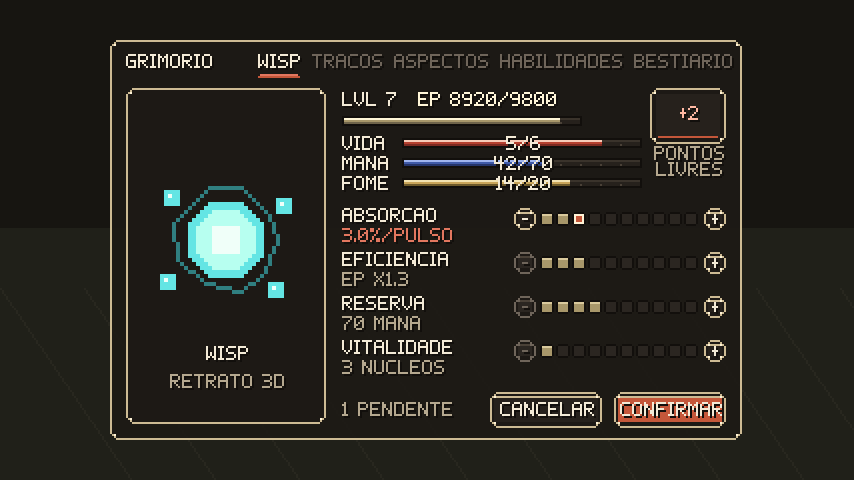
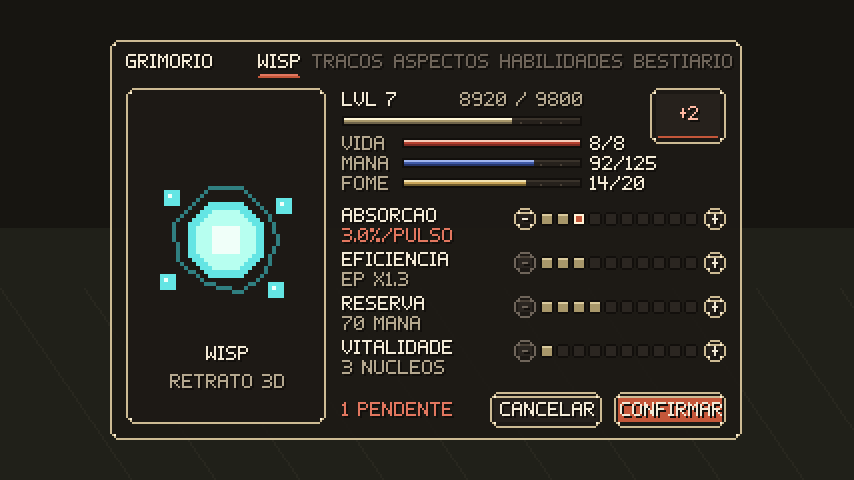
feat(grimoire): layout compacto aprovado (barras de 90 px com valor a direita, sem legenda no +N)
Vida, mana e fome usam barras 90x5 (bar_background_short) terminando em 236,
junto da barra de EP, com o valor a direita em vez de em cima. EP alinhado a
direita, legenda 'pontos livres' removida (colidia com a mana) e dica curta
em ferrugem quando ha pendentes. Gerador, mockup, LAYOUT.md e spec F5 juntos.

Changed region(s): [[0.4871, 0.1875, 0.8525, 0.4062], [0.3958, 0.2812, 0.4567, 0.4062], [0.3958, 0.8125, 0.548, 0.875]]

diff --git a/src/main/java/dev/eder/wispborn/client/grimoire/GrimoireScreen.java b/src/main/java/dev/eder/wispborn/client/grimoire/GrimoireScreen.java
@@ -20,12 +20,10 @@ import net.minecraft.client.resources.sounds.SimpleSoundInstance;
 import net.minecraft.network.chat.Component;
 import net.minecraft.resources.ResourceLocation;
 import net.minecraft.sounds.SoundEvents;
-import net.minecraft.util.FormattedCharSequence;
 import net.minecraft.util.Mth;
 import net.minecraft.world.entity.player.Player;
 import net.neoforged.neoforge.network.PacketDistributor;
 
-import java.util.List;
 import java.util.Locale;
 
 /**
@@ -42,7 +40,11 @@ public final class GrimoireScreen extends Screen {
     private static final int COLOR_POINTS_ACTIVE = 0xFFB9A3;
     private static final int COLOR_CONFIRM_ACTIVE = 0xFFF3D6;
 
-    private static final int BAR_WIDTH = 120;
+    private static final int EP_BAR_WIDTH = 120;
+    /** Vida, mana e fome: mais curtas que a de EP para o valor caber à direita da barra. */
+    private static final int STAT_BAR_WIDTH = 90;
+    private static final int BARS_RIGHT = 236;
+    private static final int STAT_VALUE_X = BARS_RIGHT + 4;
     private static final int BAR_HEIGHT = 5;
     private static final int STAT_TEXT_MAX_WIDTH = 84;
     private static final int STEP_BTN_SIZE = 11;
@@ -179,27 +181,27 @@ public final class GrimoireScreen extends Screen {
                 ? Component.translatable("wispborn.grimoire.ep_max", state.totalEp())
                 : Component.translatable("wispborn.grimoire.ep", state.totalEp(), state.nextLevelEp());
         graphics.drawString(font, levelLabel, left + 116, top + 26, COLOR_TEXT_PRIMARY, true);
-        graphics.drawString(font, epLabel, left + 154, top + 26, COLOR_TEXT_SECONDARY, true);
+        graphics.drawString(font, epLabel, left + BARS_RIGHT - font.width(epLabel), top + 26, COLOR_TEXT_SECONDARY, true);
 
         int epFill;
         if (state.nextLevelEp() < 0) {
-            epFill = BAR_WIDTH;
+            epFill = EP_BAR_WIDTH;
         } else {
             int inLevel = Math.max(0, state.totalEp() - state.levelStartEp());
             int span = Math.max(1, state.nextLevelEp() - state.levelStartEp());
-            epFill = HudMath.progressWidth(inLevel, span, BAR_WIDTH);
+            epFill = HudMath.progressWidth(inLevel, span, EP_BAR_WIDTH);
         }
 
         float health = player.getHealth();
         float maxHealth = Math.max(1.0F, player.getMaxHealth());
-        int lifeFill = HudMath.progressWidth(health, maxHealth, BAR_WIDTH);
+        int lifeFill = HudMath.progressWidth(health, maxHealth, STAT_BAR_WIDTH);
 
         float mana = state.mana();
         int maxMana = Math.max(1, state.maxMana());
-        int manaFill = HudMath.progressWidth(mana, maxMana, BAR_WIDTH);
+        int manaFill = HudMath.progressWidth(mana, maxMana, STAT_BAR_WIDTH);
 
         int food = player.getFoodData().getFoodLevel();
-        int hungerFill = HudMath.progressWidth(food, 20.0F, BAR_WIDTH);
+        int hungerFill = HudMath.progressWidth(food, 20.0F, STAT_BAR_WIDTH);
 
         int remaining = this.pending.remainingPoints();
         boolean hasPoints = remaining > 0;
@@ -208,10 +210,10 @@ public final class GrimoireScreen extends Screen {
                 : GrimoireSprites.POINTS_BOX_EMPTY;
 
         RenderSystem.enableBlend();
-        drawBar(graphics, GrimoireSprites.BAR_EP, left + 116, top + 38, epFill);
-        drawBar(graphics, GrimoireSprites.BAR_LIFE, left + 146, top + 49, lifeFill);
-        drawBar(graphics, GrimoireSprites.BAR_MANA, left + 146, top + 59, manaFill);
-        drawBar(graphics, GrimoireSprites.BAR_HUNGER, left + 146, top + 69, hungerFill);
+        drawBar(graphics, GrimoireSprites.BAR_BACKGROUND, GrimoireSprites.BAR_EP, EP_BAR_WIDTH, left + 116, top + 38, epFill);
+        drawBar(graphics, GrimoireSprites.BAR_BACKGROUND_SHORT, GrimoireSprites.BAR_LIFE, STAT_BAR_WIDTH, left + 146, top + 49, lifeFill);
+        drawBar(graphics, GrimoireSprites.BAR_BACKGROUND_SHORT, GrimoireSprites.BAR_MANA, STAT_BAR_WIDTH, left + 146, top + 59, manaFill);
+        drawBar(graphics, GrimoireSprites.BAR_BACKGROUND_SHORT, GrimoireSprites.BAR_HUNGER, STAT_BAR_WIDTH, left + 146, top + 69, hungerFill);
         graphics.blitSprite(pointsBox, left + 270, top + 24, 38, 28);
         RenderSystem.disableBlend();
 
@@ -219,21 +221,15 @@ public final class GrimoireScreen extends Screen {
         graphics.drawString(font, Component.translatable("wispborn.grimoire.mana"), left + 116, top + 58, COLOR_TEXT_SECONDARY, true);
         graphics.drawString(font, Component.translatable("wispborn.grimoire.hunger"), left + 116, top + 68, COLOR_TEXT_SECONDARY, true);
 
-        int barCenterX = left + 146 + BAR_WIDTH / 2;
-        graphics.drawCenteredString(font, Mth.ceil(health) + "/" + Mth.ceil(maxHealth), barCenterX, top + 48, COLOR_TEXT_PRIMARY);
-        graphics.drawCenteredString(font, Mth.floor(mana) + "/" + state.maxMana(), barCenterX, top + 58, COLOR_TEXT_PRIMARY);
-        graphics.drawCenteredString(font, food + "/20", barCenterX, top + 68, COLOR_TEXT_PRIMARY);
+        int valueX = left + STAT_VALUE_X;
+        graphics.drawString(font, Mth.ceil(health) + "/" + Mth.ceil(maxHealth), valueX, top + 48, COLOR_TEXT_PRIMARY, true);
+        graphics.drawString(font, Mth.floor(mana) + "/" + state.maxMana(), valueX, top + 58, COLOR_TEXT_PRIMARY, true);
+        graphics.drawString(font, food + "/20", valueX, top + 68, COLOR_TEXT_PRIMARY, true);
 
         String pointsText = "+" + remaining;
         int pointsColor = hasPoints ? COLOR_POINTS_ACTIVE : COLOR_TEXT_DISABLED;
+        // Sem legenda: o "+N" basta, e uma legenda sob a caixa colidiria com o valor da mana.
         graphics.drawCenteredString(font, pointsText, left + 289, top + 24 + (28 - font.lineHeight) / 2, pointsColor);
-
-        List<FormattedCharSequence> captionLines = font.split(Component.translatable("wispborn.grimoire.points"), 40);
-        for (int i = 0; i < captionLines.size(); i++) {
-            FormattedCharSequence line = captionLines.get(i);
-            int lineW = font.width(line);
-            graphics.drawString(font, line, left + 289 - lineW / 2, top + 54 + i * 8, COLOR_TEXT_SECONDARY, true);
-        }
     }
 
     private void renderAttributes(
@@ -303,11 +299,17 @@ public final class GrimoireScreen extends Screen {
 
     private void renderFooter(GuiGraphics graphics, Font font, int left, int top, int mouseX, int mouseY) {
         boolean hasPending = this.pending.hasPending();
-        Component hint = hasPending
-                ? Component.translatable("wispborn.grimoire.hint.pending", this.pending.toDelta().total())
-                : Component.translatable("wispborn.grimoire.hint.idle");
+        int pendingCount = this.pending.toDelta().total();
+        Component hint;
+        if (!hasPending) {
+            hint = Component.translatable("wispborn.grimoire.hint.idle");
+        } else if (pendingCount == 1) {
+            hint = Component.translatable("wispborn.grimoire.hint.pending_one");
+        } else {
+            hint = Component.translatable("wispborn.grimoire.hint.pending", pendingCount);
+        }
         String hintStr = ellipsize(font, hint.getString(), 70);
-        graphics.drawString(font, hintStr, left + 116, top + 181, COLOR_TEXT_SECONDARY, true);
+        graphics.drawString(font, hintStr, left + 116, top + 181, hasPending ? COLOR_RUST_LIGHT : COLOR_TEXT_SECONDARY, true);
 
         int cancelX = left + 190;
         int confirmX = left + 252;
@@ -391,10 +393,18 @@ public final class GrimoireScreen extends Screen {
         return super.mouseClicked(mouseX, mouseY, button);
     }
 
-    private static void drawBar(GuiGraphics graphics, ResourceLocation fillSprite, int x, int y, int fillWidth) {
-        graphics.blitSprite(GrimoireSprites.BAR_BACKGROUND, x, y, BAR_WIDTH, BAR_HEIGHT);
+    private static void drawBar(
+            GuiGraphics graphics,
+            ResourceLocation backgroundSprite,
+            ResourceLocation fillSprite,
+            int width,
+            int x,
+            int y,
+            int fillWidth
+    ) {
+        graphics.blitSprite(backgroundSprite, x, y, width, BAR_HEIGHT);
         if (fillWidth > 0) {
-            graphics.blitSprite(fillSprite, BAR_WIDTH, BAR_HEIGHT, 0, 0, x, y, fillWidth, BAR_HEIGHT);
+            graphics.blitSprite(fillSprite, width, BAR_HEIGHT, 0, 0, x, y, fillWidth, BAR_HEIGHT);
         }
     }
 

diff --git a/art/hud/src/generate_hud.py b/art/hud/src/generate_hud.py
@@ -244,12 +244,14 @@ def make_grimoire():
         d.rectangle((3,3,20,20),fill='#26211C' if active else '#2B2621')
         d.line((4,20,19,20),fill='#C4573A' if active else '#4A4137')
         put('points_box_'+('active' if active else 'empty'),image,4)
+    # EP keeps the full 120 px; life, mana and hunger are 90 px so their values fit to the right.
     put('bar_background',bar((120,5),('#26211C',)*3))
-    for name,colors in [('life',('#B5402F','#F7CBB8','#7D2A21')),
-                        ('mana',('#3F5AA8','#9FB4EE','#24346A')),
-                        ('hunger',('#C9A55A','#F2E2B0','#6E5A2A')),
-                        ('ep',('#A8976A','#FFF6D8','#6F644A'))]:
-        put('bar_'+name,bar((120,5),colors,True))
+    put('bar_background_short',bar((90,5),('#26211C',)*3))
+    for name,colors,width in [('life',('#B5402F','#F7CBB8','#7D2A21'),90),
+                              ('mana',('#3F5AA8','#9FB4EE','#24346A'),90),
+                              ('hunger',('#C9A55A','#F2E2B0','#6E5A2A'),90),
+                              ('ep',('#A8976A','#FFF6D8','#6F644A'),120)]:
+        put('bar_'+name,bar((width,5),colors,True))
     (ROOT/'grimoire_manifest.json').write_text(json.dumps({k:list(v.size) for k,v in kit.items()},indent=2)+'\n')
     return kit
 
@@ -453,20 +455,19 @@ def grimoire_mockup(kit):
     label('WISP',58,153,center=True)
     label('RETRATO 3D',58,167,'#B5A88F',True)
     label('LVL 7',116,26)
-    label('EP 8920/9800',154,26,'#FFF6D8')
+    ep='8920 / 9800'
+    label(ep,236-(sum(len(FONT[c][0])+1 for c in ep)-1),26,'#B5A88F')
     paste('bar_background',116,38)
-    canvas.alpha_composite(kit['bar_ep'].crop((0,0,109,5)),(ox+116,oy+38))
-    for title,name,y,value,numbers in [('VIDA','life',48,5/6,'5/6'),('MANA','mana',58,.6,'42/70'),('FOME','hunger',68,.7,'14/20')]:
-        label(title,116,y)
-        paste('bar_background',146,y+1)
-        canvas.alpha_composite(kit['bar_'+name].crop((0,0,math.floor(120*value),5)),(ox+146,oy+y+1))
-        label(numbers,206,y,'#F3EAD6',True)
+    canvas.alpha_composite(kit['bar_ep'].crop((0,0,85,5)),(ox+116,oy+38))
+    # Bars end at 236, aligned with the EP bar; values start at 240, clear of the bars.
+    for title,name,y,value,numbers in [('VIDA','life',48,1,'8/8'),('MANA','mana',58,92/125,'92/125'),('FOME','hunger',68,.7,'14/20')]:
+        label(title,116,y,'#B5A88F')
+        paste('bar_background_short',146,y+1)
+        canvas.alpha_composite(kit['bar_'+name].crop((0,0,math.floor(90*value),5)),(ox+146,oy+y+1))
+        label(numbers,240,y)
+    # The +N counter needs no caption; a caption would collide with the mana value.
     paste('points_box_active',270,24,(38,28),4)
     label('+2',289,33,'#FFB9A3',True)
-    # The two-line caption fits below the box without colliding with resource values.
-    label('PONTOS',289,53,'#B5A88F',True)
-    label('LIVRES',289,61,'#B5A88F',True)
-    # Values sit over the bars so the points caption retains its own column.
     for i,(name,effect,spent,pending) in enumerate([
             ('ABSORCAO','3.0%/PULSO',2,1),('EFICIENCIA','EP X1.3',3,0),
             ('RESERVA','70 MANA',4,0),('VITALIDADE','3 NUCLEOS',1,0)]):
@@ -482,7 +483,7 @@ def grimoire_mockup(kit):
     paste('button',190,176,(56,18),3)
     paste('button_primary',252,176,(56,18),3)
     label('CANCELAR',218,181,center=True);label('CONFIRMAR',280,181,center=True)
-    label('1 PENDENTE',116,181,'#B5A88F')
+    label('1 PENDENTE',116,181,'#E2775F')
     return canvas.resize((854,480),Image.Resampling.NEAREST)
 
 

diff --git a/src/main/java/dev/eder/wispborn/client/grimoire/GrimoireSprites.java b/src/main/java/dev/eder/wispborn/client/grimoire/GrimoireSprites.java
@@ -27,6 +27,7 @@ public final class GrimoireSprites {
     public static final ResourceLocation POINTS_BOX_EMPTY = grimoire("points_box_empty");
 
     public static final ResourceLocation BAR_BACKGROUND = grimoire("bar_background");
+    public static final ResourceLocation BAR_BACKGROUND_SHORT = grimoire("bar_background_short");
     public static final ResourceLocation BAR_LIFE = grimoire("bar_life");
     public static final ResourceLocation BAR_MANA = grimoire("bar_mana");
     public static final ResourceLocation BAR_HUNGER = grimoire("bar_hunger");

diff --git a/docs/specs/F5-hud-b-grimorio.md b/docs/specs/F5-hud-b-grimorio.md
@@ -36,7 +36,8 @@ Grimório, atlas de GUI, `wispborn:grimoire/<nome>`:
 | `button`, `button_hover`, `button_disabled` | 20×20, nine-slice borda 3 | Botões `−`, `+` e Cancelar |
 | `button_primary`, `button_primary_hover`, `button_primary_disabled` | 20×20, nine-slice borda 3 | Confirmar |
 | `points_box_active`, `points_box_empty` | 24×24, nine-slice borda 4 | Contador `+N` (com pontos / sem pontos) |
-| `bar_background`, `bar_life`, `bar_mana`, `bar_hunger`, `bar_ep` | 120×5 | Barras da página (estáticas) |
+| `bar_background`, `bar_ep` | 120×5 | Barra de EP da página (estática) |
+| `bar_background_short`, `bar_life`, `bar_mana`, `bar_hunger` | 90×5 | Vida, mana e fome da página (estáticas) |
 
 Copiar PNG e `.png.mcmeta` juntos. O nine-slice vem no `.mcmeta` (`gui.scaling.type = nine_slice`).
 
@@ -80,14 +81,16 @@ Copiar PNG e `.png.mcmeta` juntos. O nine-slice vem no `.mcmeta` (`gui.scaling.t
    | Abas: Wisp (ativa), Traços, Aspectos, Habilidades, Bestiário | a partir de 74, 7, separadas por 8 | fonte; desativadas em `#6F655A` |
    | `tab_underline` sob a aba ativa | largura do texto, y 17 | 3 de altura |
    | `portrait_frame` + wisp 3D | 8, 24 | 100×168 |
-   | "Lvl N" e "EP atual / próximo" | 116, 26 | fonte |
-   | `bar_ep` | 116, 38 | 120×5 |
-   | Vida, Mana, Fome: rótulo + barra + valor | 116, 48 / 58 / 68 | barras 120×5 |
-   | Contador de pontos (`points_box_*` + `+N`) | 270, 24 | 38×28 |
-   | Rótulo do contador (`pontos livres`) | centrado sob o contador | fonte |
+   | "Lvl N" | 116, 26 | fonte |
+   | "EP atual / próximo" (`wispborn.grimoire.ep`) | alinhado à direita em 236, y 26 | fonte, `#B5A88F` |
+   | `bar_ep` sobre `bar_background` | 116, 38 | 120×5 |
+   | Vida, Mana, Fome: rótulo (`#B5A88F`) | 116, 48 / 58 / 68 | fonte |
+   | Barras de vida, mana e fome sobre `bar_background_short` | 146, 49 / 59 / 69 | 90×5 (terminam em 236, junto com a de EP) |
+   | Valor de cada barra (`atual/máximo`) | 240, 48 / 58 / 68 | fonte, à direita da barra, nunca em cima |
+   | Contador de pontos (`points_box_*` + `+N`) | 270, 24 | 38×28, sem legenda |
    | 4 linhas de atributo | 116, 84 + 22×i | ver regra 10 |
    | Cancelar e Confirmar | canto inferior direito, y 176 | 56×18 cada |
-   | Dica (`wispborn.grimoire.hint.*`) | 116, 181 | fonte, `#B5A88F` |
+   | Dica (`wispborn.grimoire.hint.*`) | 116, 181 | fonte; `#B5A88F` sem pendentes, `#E2775F` com pendentes; até 70 px |
 
 9. **Wisp 3D:** `InventoryScreen.renderEntityInInventoryFollowsMouse(guiGraphics, x1, y1, x2, y2, scale,
    yOffset, mouseX, mouseY, player)` dentro do quadro. Com a forma WISP, o `RenderPlayerEvent` do mod já troca
@@ -136,8 +139,9 @@ Copiar PNG e `.png.mcmeta` juntos. O nine-slice vem no `.mcmeta` (`gui.scaling.t
   barras, atributos, rodapé); `client/grimoire/GrimoireSprites` (constantes `wispborn:grimoire/*`);
   `client/hud/HudSprites.DNA_ORB`.
 - Lang (pt_br e en_us): `key.wispborn.grimoire`, `wispborn.grimoire.title`, `wispborn.grimoire.tab.wisp|traits|aspects|skills|bestiary`,
-  `wispborn.grimoire.points` (`pontos livres` / `points left`), `wispborn.grimoire.cancel`, `wispborn.grimoire.confirm`,
-  `wispborn.grimoire.hint.idle`, `wispborn.grimoire.hint.pending`, os 4 formatos de efeito, e
+  `wispborn.grimoire.cancel`, `wispborn.grimoire.confirm`, `wispborn.grimoire.hint.idle` (`Clique em +`),
+  `wispborn.grimoire.hint.pending_one` (`1 pendente`) e `wispborn.grimoire.hint.pending` (`%s pendentes`),
+  os 4 formatos de efeito, e
   `wispborn.grimoire.allocate.empty|negative|not_enough_points|over_max`.
 
 ## Testes (JUnit)
@@ -226,7 +230,7 @@ Nenhuma. A arte A4 (`art/hud/sprites/` e `art/hud/grimoire/`) passou no `validat
 ### Decisões tomadas
 - **Zero `fill` ou gradiente no Grimório:** `GrimoireScreen.renderBackground` foi sobrescrito vazio para impedir o `fillGradient` escuro padrão do `Screen` vanilla, mantendo 100% da renderização em `GuiGraphics.blitSprite` e `Font`.
 - **Retrato 3D na forma `HOST`:** como o jogador em `HOST` fica invisível e `WispRenderHandler.onRenderPlayerPre` cancela a renderização no mundo, `GrimoireScreen.renderPortrait` envolve `InventoryScreen.renderEntityInInventoryFollowsMouse` com `WispRenderHandler.setRenderingGrimoirePortrait(true/false)` para que o modelo 3D do wisp apareça no retrato tanto em `WISP` quanto em `HOST`.
-- **Legenda do contador de pontos:** `wispborn.grimoire.points` (`"pontos livres"` / `"points left"`) é quebrada com `font.split(..., 40)` sob a caixa `38×28` em `(270, 24)` conforme `art/hud/LAYOUT.md`, evitando colisão com as barras de recursos (`x = 146..266`).
+- **Legenda do contador de pontos:** removida na revisão de 20/11 (layout do Gemini aprovado por Eder). A legenda sob a caixa colidia com o valor da mana; o `+N` sozinho basta.
 
 ### O que não foi feito
 - Páginas Traços, Aspectos, Habilidades e Bestiário (exibidas apenas como abas desativadas, fora de escopo).

diff --git a/art/hud/LAYOUT.md b/art/hud/LAYOUT.md
@@ -101,7 +101,8 @@ scaling separately to the nine regions; corners retain their pixel size.
 | `button`, `button_hover`, `button_disabled` | 20×20 | 3 |
 | `button_primary`, `button_primary_hover`, `button_primary_disabled` | 20×20 | 3 |
 | `points_box_active`, `points_box_empty` | 24×24 | 4 |
-| `bar_background`, `bar_life`, `bar_mana`, `bar_hunger`, `bar_ep` | 120×5 | none |
+| `bar_background`, `bar_ep` | 120×5 | none |
+| `bar_background_short`, `bar_life`, `bar_mana`, `bar_hunger` | 90×5 | none |
 
 ## Grimoire mockup layout
 
@@ -116,16 +117,16 @@ All coordinates below are relative to the panel's top-left.
 | Tabs | starting 74,7 | Wisp active; others disabled; 6 px gap (allowed -2 adjustment) |
 | Active underline | tab X,17 | Text width ×3 |
 | Portrait frame | 8,24 | 100×168 |
-| Level / EP label | 116,26 / 154,26 | Lvl 7; EP 8920/9800 |
+| Level / EP label | 116,26 / right-aligned at 236,26 | Lvl 7; 8920 / 9800 |
 | EP bar | 116,38 | 120×5 |
-| Life / mana / hunger labels | 116,48 / 58 / 68 | Values 5/6, 42/70, 14/20 |
-| Resource bars | 146,49 / 59 / 69 | 120×5; values centered at X=206 over the bars |
-| Points box | 270,24 | 38×28; +2 remaining |
-| Points caption | centered at 289,53 and 61 | Two lines avoid the resource column |
+| Life / mana / hunger labels | 116,48 / 58 / 68 | Muted text |
+| Resource bars | 146,49 / 59 / 69 | 90×5, ending at 236 with the EP bar |
+| Resource values | 240,48 / 58 / 68 | Left-aligned after the bars: 8/8, 92/125, 14/20 |
+| Points box | 270,24 | 38×28; +2 remaining; no caption |
 | Attribute rows | 116,84 + 22*i | Name; effect 10 px below |
 | Minus / pips / plus | 202 / 215 / 297 | 11×11 buttons; ten 7×7 pips at 8 px pitch |
 | Cancel / confirm | 190,176 / 252,176 | 56×18 |
-| Pending hint | 116,181 | One pending point |
+| Pending hint | 116,181 | One pending point, rust #E2775F |
 
 Example: Absorption has two committed pips plus one pending; Efficiency 3,
 Reserve 4, Vitality 1. The +2 box means **two remaining after the displayed pending

diff --git a/docs/superpowers/specs/2026-11-20-hud-b-grimorio-design.md b/docs/superpowers/specs/2026-11-20-hud-b-grimorio-design.md
@@ -98,7 +98,9 @@ Os valores exatos de Y são ponto de partida; quem implementa ajusta ±2 px comp
 ## Grimório: página do Wisp
 
 - **Abrir:** tecla configurável, padrão `K` (era a tecla planejada na M6). Só como parasita. `Esc` fecha.
-- **Layout** (prancha "Grimório · página do wisp"): cabeçalho com "Grimório" e as abas (Wisp ativa; as
+- **Layout** (revisado em 20/11: Eder aprovou o layout compacto testado no mockup do Gemini, em
+  `art/hud/mockup_grimoire.png`; barras de vida, mana e fome com 90 px e o valor à direita, sem legenda sob
+  o `+N`). Cabeçalho com "Grimório" e as abas (Wisp ativa; as
   outras visíveis e desativadas). À esquerda, o wisp grande; à direita, nível, EP, vida, mana, fome, o
   contador de pontos e os quatro atributos.
 - **Wisp:** o modelo 3D animado, renderizado como o boneco do jogador no inventário, girando devagar ou
